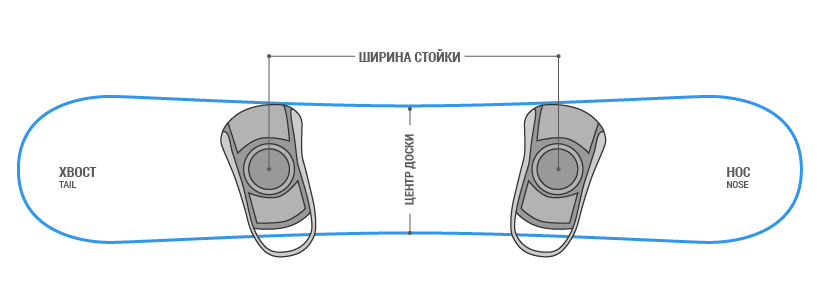
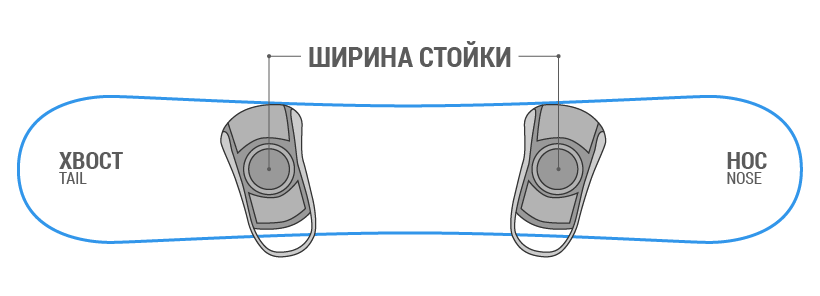
calc edits

diff --git a/blog/stance-calculator.html b/blog/stance-calculator.html
@@ -1,13 +1,13 @@
 <!DOCTYPE html>
 <html lang="en">
   <head>
-    <title>Курс "Фристайл"  | Сноуборд школа | Алматы</title>
+    <title>Ширина стойки | Сноуборд школа | Алматы</title>
     <meta property="og:type" content="website">
-    <meta property="og:title" content="Сноуборд курс &laquo;Flat фристайл&raquo;">
+    <meta property="og:title" content="Ширина стойки на сноуборде">
     <meta property="og:site_name" content="Wayz-X">
-    <meta property="og:url" content="https://wayz-x.github.io/cources/flat">
-    <meta property="og:description" content="Научимся базовым трюкам — ollie и&nbsp;nollie, слайды и&nbsp;прессы, вращения на снегу и&nbsp;в&nbsp;прыжке!">
-    <meta property="og:image" content="https://wayz-x.github.io/images/cources/og-flat.png">
+    <meta property="og:url" content="https://wayz-x.github.io/blog/stance-calculator">
+    <meta property="og:description" content="Калькулятор ширины стойки от роста сноубордиста.">
+    <meta property="og:image" content="https://wayz-x.github.io/images/blog/og-stance.png">
     <meta property="og:image:type" content="image/png">
     <meta property="og:image:width" content="968">
     <meta property="og:image:height" content="504">
@@ -55,13 +55,14 @@
             <p>Частый вопрос, возникающий не только у&nbsp;новичков, но и&nbsp;у&nbsp;опытных райдеров.</p>
             <p>Чем шире стойка, тем больше ваша продольная устойчивость. Но при этом снижается диапазон работы в&nbsp;коленях, что негативно влияет на повороты. Широкая стойка больше подходит для джиббинга.</p>
             <p>Узкая стойка повышает мобильность в&nbsp;коленях, но снижает устойчивость. Так что нам приходится искать компромисс между маневренностью и&nbsp;устойчивостью.</p>
+            <img src="/images/blog/stance-title.png" class="img-fluid my-2" style="touch-action: pinch-zoom" alt="Ширина стойки сноубордиста">
             <p>Оптимальной шириной стойки на сноуборде считается расстояние между креплениями, равное длине от локтя до костяшек кулака вашей руки</p>
             <p>Но крепления бывают разной формы и&nbsp;с&nbsp;разной толщиной корпуса. По этому мы предпочитаем измерять ширину между центрами креплений. Которую легко высчитать, умножив свой рост в&nbsp;сантиметрах на 0.29 для мужчин и&nbsp;0.27 для женщин.</p>
             <p>Либо <b>воспользоваться</b> нашим <b>калькулятором ширины</b> стойки.</p>
             <p><b>Важно помнить</b>, что все люди разные и&nbsp;под одну формулу всех не подогнать. Если в&nbsp;оптимальной ширине стойки вам не комфортно, то попробуйте сделать её уже или шире на 1&nbsp;сантиметр.</p>
             </div>
             <div class="ml-lg-auto col-lg-6 col-md-12 col-sm-12 col-12" data-aos="fade-up" data-aos-delay="600" id="stance_calc">
-            <div class="team-thumb"> <img src="/images/blog/stance.png" class="img-fluid" alt="Ширина стойки">
+            <div class="team-thumb"> <img src="/images/blog/stance.png" class="img-fluid" style="touch-action: pinch-zoom" alt="Ширина стойки">
                 <div class="team-info d-flex flex-column">
                 <h3>Калькулятор стойки</h3>
                 <div class="row mt-sm-4 mt-0 justify-content-center justify-content-lg-evenly" data-aos="fade-up" data-aos-delay="700">
@@ -70,7 +71,7 @@
                         <button class="btn custom-btn bordered pol" id="male">Муж</button>
                      </div>
                      <div class="d-flex mt-sm-0 mt-3">
-                        <input id="height" class="input mr-3" placeholder="рост в см"/>
+                        <input id="height" class="input mr-3" onkeypress="handleKeyPress(event)" placeholder="рост в см"/>
                         <button class="btn custom-btn bg-color" id="calc" onclick="calc()"> = </button>
                     </div>
                 </div>
@@ -95,19 +96,20 @@
     <script src="https://kit.fontawesome.com/800bcf0ba0.js" crossorigin="anonymous"></script>
     <script src="/js/droplist.js"></script>
     <script src="/js/calc.js"></script>
+    <script src="/js/modernizr-touch.js"></script>
     <script>
       $(document).ready(function () {
       //adds menu content into any "#menu" element
         $('#header').load('/header.html');
-        $('#navbar').load('/navbar.html', function() {
-          $('#flat').addClass("active");
-        });
+        $('#navbar').load('/navbar.html');
         $('#footer').load('/footer.html');
 
         $('.pol').click(function(e){
           e.preventDefault();
           
           $('.pol').removeClass('active');
+          $('.pol').addClass('bordered');
+          $(this).removeClass("bordered");
           $(this).addClass("active");
         });
       });

diff --git a/js/modernizr-touch.js b/js/modernizr-touch.js
@@ -1,0 +1,3 @@
+/*! modernizr 3.6.0 (Custom Build) | MIT *
+ * https://modernizr.com/download/?-touchevents-setclasses !*/
+!function(e,n,t){function o(e,n){return typeof e===n}function s(){var e,n,t,s,a,i,r;for(var l in c)if(c.hasOwnProperty(l)){if(e=[],n=c[l],n.name&&(e.push(n.name.toLowerCase()),n.options&&n.options.aliases&&n.options.aliases.length))for(t=0;t<n.options.aliases.length;t++)e.push(n.options.aliases[t].toLowerCase());for(s=o(n.fn,"function")?n.fn():n.fn,a=0;a<e.length;a++)i=e[a],r=i.split("."),1===r.length?Modernizr[r[0]]=s:(!Modernizr[r[0]]||Modernizr[r[0]]instanceof Boolean||(Modernizr[r[0]]=new Boolean(Modernizr[r[0]])),Modernizr[r[0]][r[1]]=s),f.push((s?"":"no-")+r.join("-"))}}function a(e){var n=u.className,t=Modernizr._config.classPrefix||"";if(h&&(n=n.baseVal),Modernizr._config.enableJSClass){var o=new RegExp("(^|\\s)"+t+"no-js(\\s|$)");n=n.replace(o,"$1"+t+"js$2")}Modernizr._config.enableClasses&&(n+=" "+t+e.join(" "+t),h?u.className.baseVal=n:u.className=n)}function i(){return"function"!=typeof n.createElement?n.createElement(arguments[0]):h?n.createElementNS.call(n,"http://www.w3.org/2000/svg",arguments[0]):n.createElement.apply(n,arguments)}function r(){var e=n.body;return e||(e=i(h?"svg":"body"),e.fake=!0),e}function l(e,t,o,s){var a,l,f,c,d="modernizr",p=i("div"),h=r();if(parseInt(o,10))for(;o--;)f=i("div"),f.id=s?s[o]:d+(o+1),p.appendChild(f);return a=i("style"),a.type="text/css",a.id="s"+d,(h.fake?h:p).appendChild(a),h.appendChild(p),a.styleSheet?a.styleSheet.cssText=e:a.appendChild(n.createTextNode(e)),p.id=d,h.fake&&(h.style.background="",h.style.overflow="hidden",c=u.style.overflow,u.style.overflow="hidden",u.appendChild(h)),l=t(p,e),h.fake?(h.parentNode.removeChild(h),u.style.overflow=c,u.offsetHeight):p.parentNode.removeChild(p),!!l}var f=[],c=[],d={_version:"3.6.0",_config:{classPrefix:"",enableClasses:!0,enableJSClass:!0,usePrefixes:!0},_q:[],on:function(e,n){var t=this;setTimeout(function(){n(t[e])},0)},addTest:function(e,n,t){c.push({name:e,fn:n,options:t})},addAsyncTest:function(e){c.push({name:null,fn:e})}},Modernizr=function(){};Modernizr.prototype=d,Modernizr=new Modernizr;var u=n.documentElement,p=d._config.usePrefixes?" -webkit- -moz- -o- -ms- ".split(" "):["",""];d._prefixes=p;var h="svg"===u.nodeName.toLowerCase(),m=d.testStyles=l;Modernizr.addTest("touchevents",function(){var t;if("ontouchstart"in e||e.DocumentTouch&&n instanceof DocumentTouch)t=!0;else{var o=["@media (",p.join("touch-enabled),("),"heartz",")","{#modernizr{top:9px;position:absolute}}"].join("");m(o,function(e){t=9===e.offsetTop})}return t}),s(),a(f),delete d.addTest,delete d.addAsyncTest;for(var v=0;v<Modernizr._q.length;v++)Modernizr._q[v]();e.Modernizr=Modernizr}(window,document);

diff --git a/css/main-style.css b/css/main-style.css
@@ -138,7 +138,7 @@ https://denmkit.github.io/
   /* BUTTON */
 
   .custom-btn {
-    background: transparent;
+    /* background: transparent; */
     border-radius: var(--border-radius-small);
     padding: 14px 24px;
     color: var(--primary-color);
@@ -150,43 +150,45 @@ https://denmkit.github.io/
     transition: all 0.3s ease;
   }
 
-  .custom-btn:hover {
-    color: var(--primary-color);
-  }
-
   .custom-btn:focus {
     box-shadow: none;
   }
 
-  .custom-btn.bordered:hover,
-  .custom-btn.bordered:focus {
-    background: var(--primary-color);
-    /* border-color: transparent; */
-    color: var(--white-color);
-    /* letter-spacing: 2px; */
-    /* font-weight: var(--font-weight-bold); */
-  }
-  .custom-btn.bg-color:hover,
-  .custom-btn.bg-color:active{
-    /* border: 2px solid var(--primary-color); */
-    border-radius: var(--border-radius-small);
+  .bg-color:hover{
+    border: 1px solid var(--primary-color);
     color: var(--primary-color);
     background: transparent;
-    /* letter-spacing: 2px; */
-    /* font-weight: var(--font-weight-bold); */
   }
 
   .bordered {
     border: 1px solid var(--primary-color);
-    border-radius: var(--border-radius-small);
-    color: var(--primary-color);
   }
 
-  .bg-color.active, .bg-color{
-    border: 1px solid var(--primary-color);
+  .bg-color,
+  .bg-color:hover:active,
+  .bordered:hover {
     background: var(--primary-color);
     color: var(--white-color);
   }
+
+  .touchevents .bg-color:hover,
+  .touchevents .bordered:hover:active {
+    background: var(--primary-color);
+    color: var(--white-color);
+  }
+
+  .touchevents .bordered:hover,
+  .touchevents .bg-color:active {
+    border: 1px solid var(--primary-color);
+    color: var(--primary-color);
+    background: transparent;
+  }
+
+  .active, .active:hover {
+    background: var(--primary-color);
+    color: var(--white-color);
+  }
+
 
 
 

diff --git a/js/calc.js b/js/calc.js
@@ -1,4 +1,10 @@
 var op; 
+function handleKeyPress(e){
+    var key=e.keyCode || e.which;
+     if (key==13){
+        calc();
+     }
+   }
 
   // функция расчёта
   function calc() {
